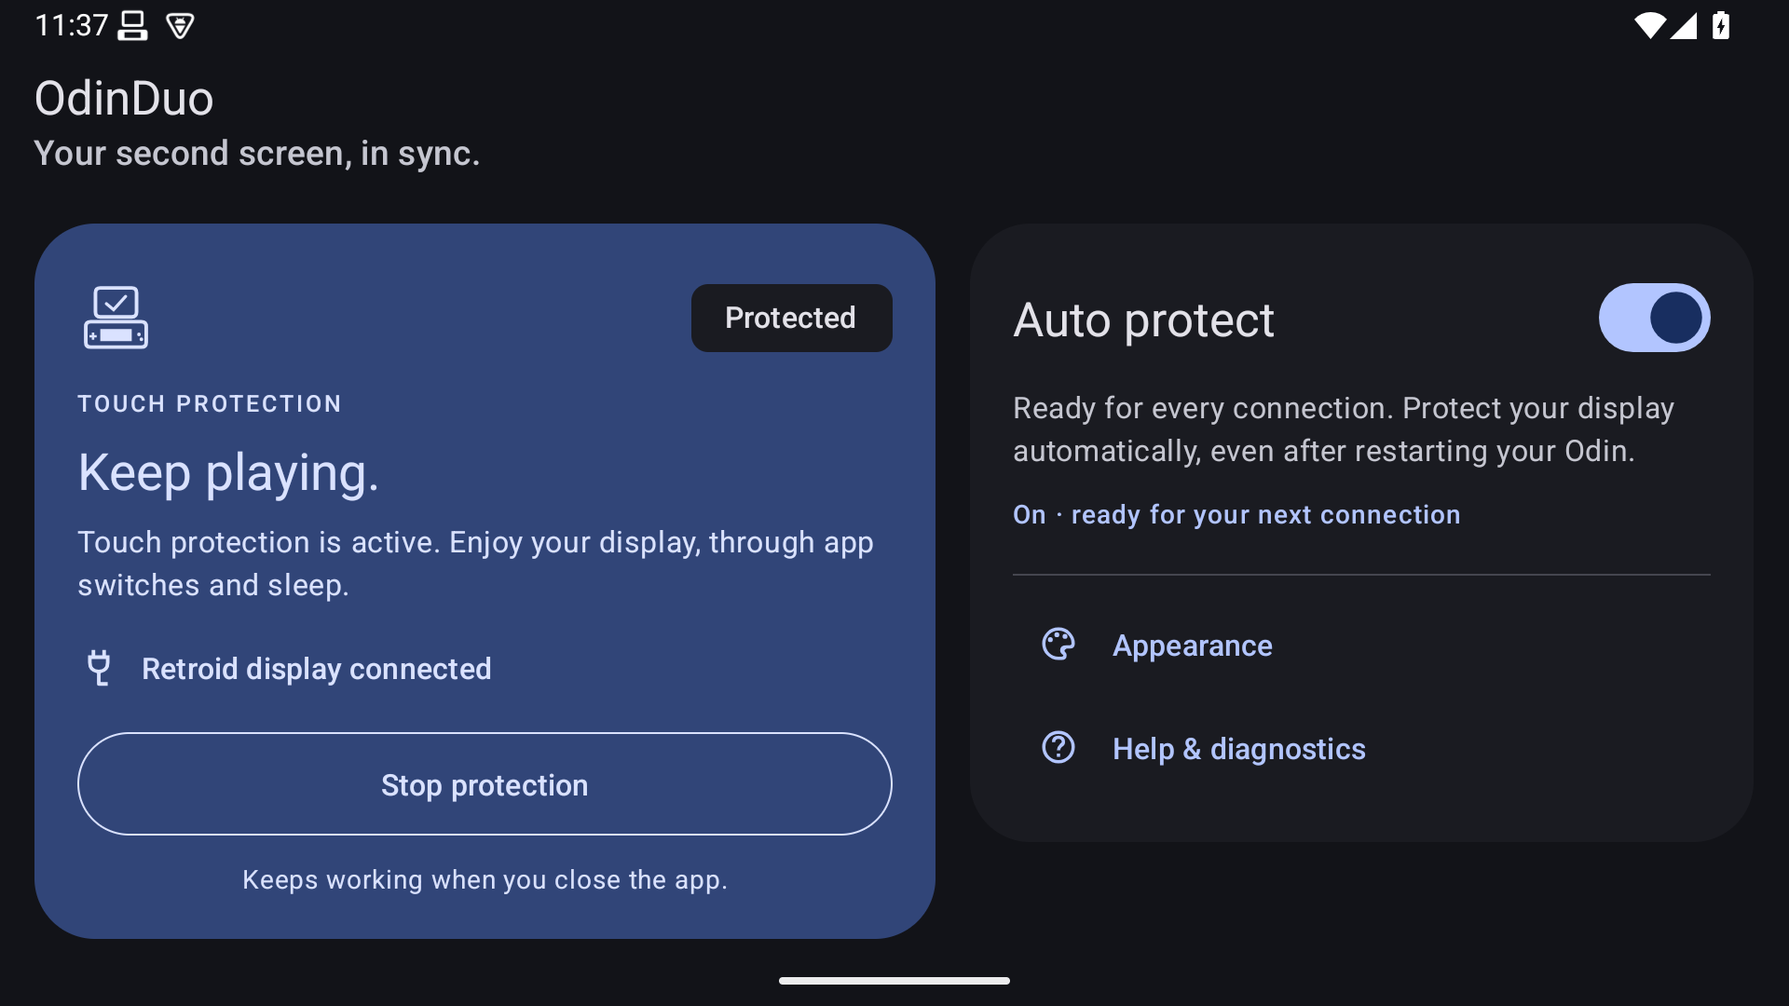
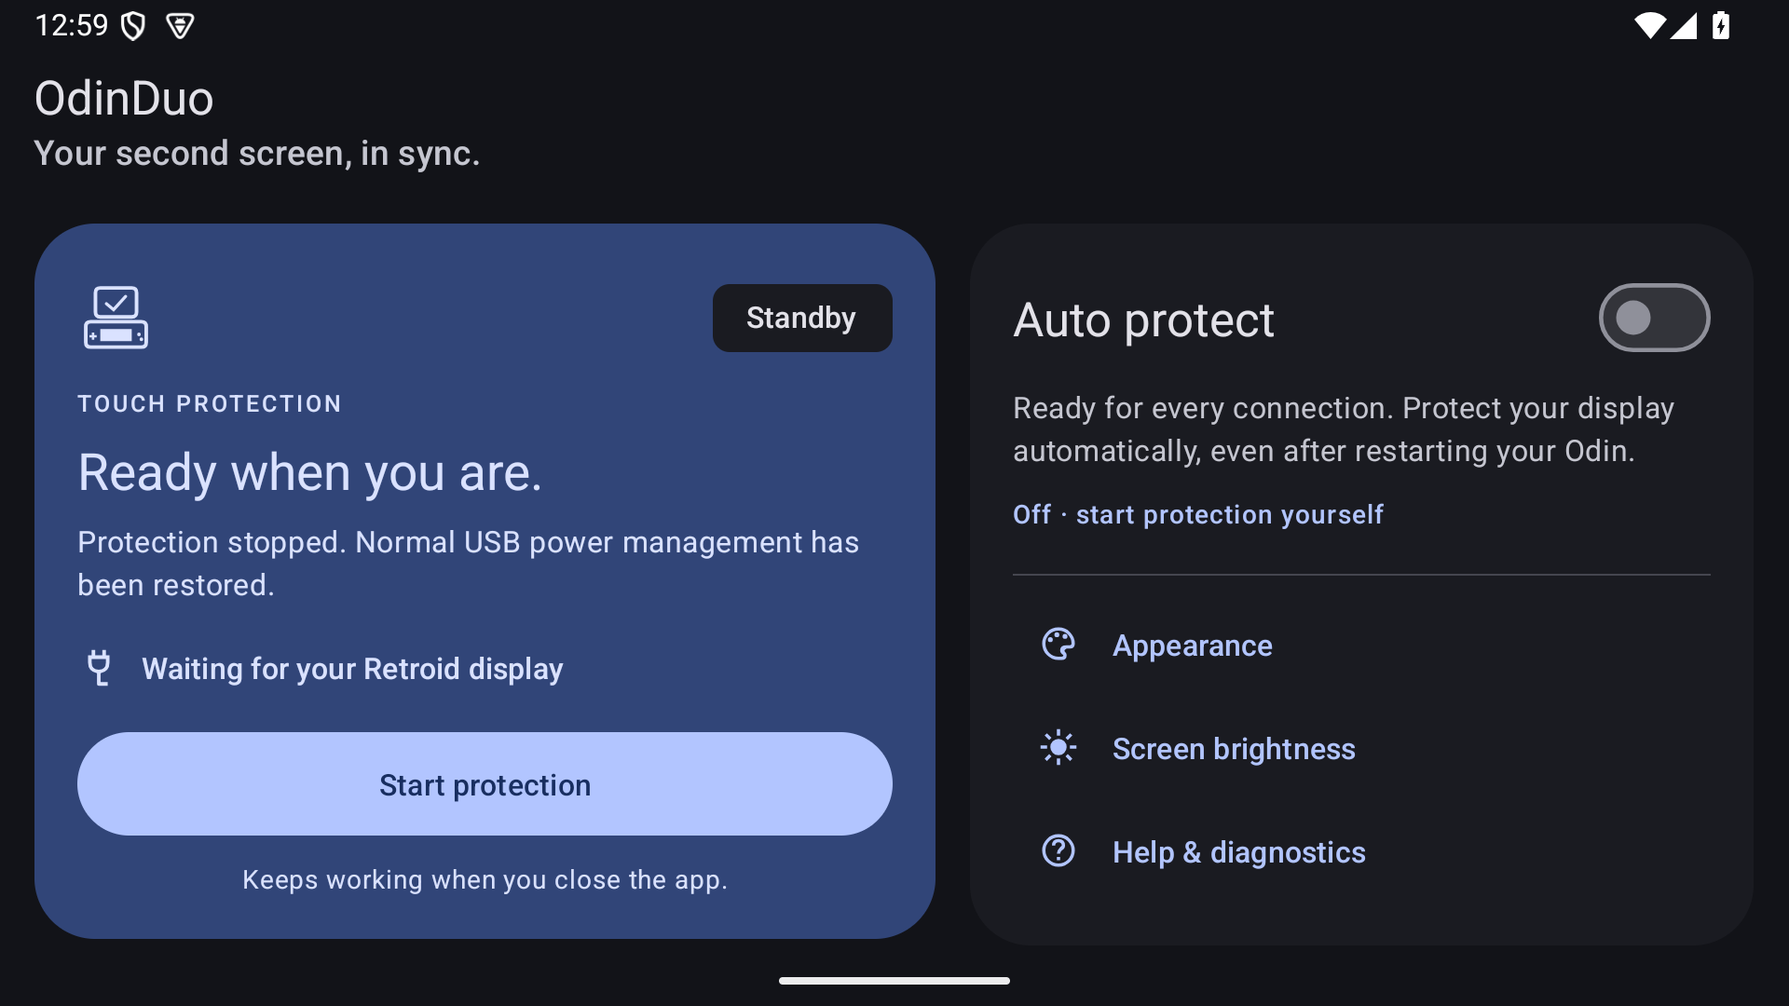
Fix automatic reconnect on stock Odin and prepare stable 1.0.0 update

diff --git a/app/tests/guard_lifecycle_test.py b/app/tests/guard_lifecycle_test.py
@@ -34,15 +34,21 @@ with tempfile.TemporaryDirectory(prefix='odinduo-guard-') as directory:
     binaries.mkdir()
     (binaries / 'id').write_text('#!/bin/sh\n[ "$1" = -u ] && echo 0\n')
     (binaries / 'id').chmod(0o755)
-    script = root / 'guard.sh'
+    script = app / 'power-guard.sh'
     text = source.read_text()
-    for old, new in [('/data/user/0/nl.retroid.touchguard/files', str(app)),
+    replacements = [('/data/user/0/nl.retroid.touchguard/files', str(app)),
                      ('/data/local/tmp', str(root / 'data/local/tmp')),
                      ('/sys/', str(root / 'sys') + '/'),
                      ('/proc/', str(proc) + '/'),
-                     ('/system/bin/sh', '/bin/sh')]:
+                     ('/system/bin/sh', '/bin/sh')]
+    for old, new in replacements:
         text = text.replace(old, new)
     script.write_text(text)
+    stop_script = app / 'power-stop.sh'
+    stop_text = source.with_name('pserver-power-stop.sh').read_text()
+    for old, new in replacements:
+        stop_text = stop_text.replace(old, new)
+    stop_script.write_text(stop_text)
     (root / 'data/local/tmp').mkdir(parents=True)
     token = 'a' * 32
     def owner(pid, start):
@@ -138,8 +144,28 @@ with tempfile.TemporaryDirectory(prefix='odinduo-guard-') as directory:
                 process.wait(timeout=4)
                 assert all(p.read_text().strip() == 'auto' for p in controls), 'Detach did not restore USB power'
                 assert not (app / 'guard-enabled').exists(), 'Detached session marker survived'
+                acknowledgement = format(cycle + 1, '032x')
+                stopped = subprocess.run(['/bin/sh', str(stop_script), acknowledgement], env=env,
+                                         capture_output=True, text=True, timeout=5)
+                assert stopped.returncode == 0, 'Restored detach was not acknowledged'
+                assert f'STOP acknowledged {acknowledgement} result=0' in log.read_text()
             finally:
                 if process.poll() is None:
                     (app / 'guard-enabled').unlink(missing_ok=True)
                     process.wait(timeout=5)
-    print('Shell lifecycle checks passed: process loss, PID reuse, adoption, Stop, grace expiry and 3 reconnects')
+    # A successful shell exit alone must never acknowledge outstanding restoration snapshots.
+    state = root / 'data/local/tmp/retroid-power-guard-state'
+    state.mkdir()
+    (state / 'saved-0').write_text('pending restoration\n')
+    script.write_text('#!/bin/sh\nexit 0\n')
+    failed_token = 'f' * 32
+    pending = subprocess.run(['/bin/sh', str(stop_script), failed_token], env=env,
+                             capture_output=True, text=True, timeout=5)
+    assert pending.returncode == 1, 'Pending restoration was reported as successful'
+    assert state.is_dir(), 'Failed confirmation discarded snapshots'
+    assert f'STOP acknowledged {failed_token} result=1' in log.read_text()
+    previous_log = log.read_text()
+    invalid = subprocess.run(['/bin/sh', str(stop_script), 'invalid;token'], env=env,
+                             capture_output=True, text=True, timeout=5)
+    assert invalid.returncode == 2 and log.read_text() == previous_log, 'Invalid token was accepted'
+    print('Shell lifecycle checks passed: process loss, PID reuse, adoption, Stop, grace expiry, 3 reconnects and restoration acknowledgements')

diff --git a/app/src/nl/retroid/touchguard/VendorBridge.java b/app/src/nl/retroid/touchguard/VendorBridge.java
@@ -112,12 +112,18 @@ final class VendorBridge {
         context.deleteFile("guard-heartbeat");
         File script = new File(context.getFilesDir(), "power-guard.sh");
         if (!script.isFile()) return;
-        String acknowledgement = "STOP acknowledged " + java.util.UUID.randomUUID().toString().replace("-", "");
-        String logPath = ProcessIdentity.quote(logFile(context).getAbsolutePath());
-        request("/system/bin/sh " + ProcessIdentity.quote(script.getAbsolutePath())
-                + " --stop >> " + logPath + " 2>&1; result=$?; "
-                + "[ ! -d /data/local/tmp/retroid-power-guard-state ] || result=1; printf "
-                + ProcessIdentity.quote(acknowledgement + " result=%s\n") + " \"$result\" >> " + logPath);
+        // The tested stock PServer accepts the long compound command but does not execute it.
+        // A short request to a bundled helper also works with a guard from an earlier APK.
+        File stopScript = new File(context.getFilesDir(), "power-stop.sh");
+        try (InputStream input = context.getResources().openRawResource(R.raw.power_stop);
+             OutputStream output = context.openFileOutput(stopScript.getName(), Context.MODE_PRIVATE)) {
+            byte[] buffer = new byte[8192];
+            int count;
+            while ((count = input.read(buffer)) >= 0) output.write(buffer, 0, count);
+        }
+        String token = java.util.UUID.randomUUID().toString().replace("-", "");
+        String acknowledgement = "STOP acknowledged " + token;
+        request("/system/bin/sh " + ProcessIdentity.quote(stopScript.getAbsolutePath()) + " " + token);
         long deadline = SystemClock.elapsedRealtime() + 5000;
         while (SystemClock.elapsedRealtime() < deadline) {
             String log = readLog(context);

diff --git a/app/src/nl/retroid/touchguard/MainActivity.java b/app/src/nl/retroid/touchguard/MainActivity.java
@@ -82,6 +82,7 @@ public final class MainActivity extends AppCompatActivity {
             if (!updatingSwitch) setAutomatic(enabled);
         });
         findViewById(R.id.appearance).setOnClickListener(view -> chooseAppearance());
+        findViewById(R.id.brightness).setOnClickListener(view -> showBrightnessHelp());
         findViewById(R.id.help).setOnClickListener(view -> showHelp());
         refreshStatus();
 
@@ -199,6 +200,18 @@ public final class MainActivity extends AppCompatActivity {
                     getSharedPreferences("appearance", MODE_PRIVATE).edit().putInt("theme", mode).apply();
                     dialog.dismiss();
                     AppCompatDelegate.setDefaultNightMode(mode);
+                }).setNegativeButton(android.R.string.cancel, null).show();
+    }
+
+    private void showBrightnessHelp() {
+        new MaterialAlertDialogBuilder(this).setTitle(R.string.brightness_title)
+                .setMessage(R.string.brightness_body)
+                .setPositiveButton(R.string.display_settings, (dialog, which) -> {
+                    try {
+                        startActivity(new Intent(android.provider.Settings.ACTION_DISPLAY_SETTINGS));
+                    } catch (android.content.ActivityNotFoundException exception) {
+                        Toast.makeText(this, R.string.display_settings_unavailable, Toast.LENGTH_SHORT).show();
+                    }
                 }).setNegativeButton(android.R.string.cancel, null).show();
     }
 

diff --git a/README.md b/README.md
@@ -23,6 +23,10 @@ Android may ask for notification permission. Allow it to see background status a
 
 **Appearance** lets you choose system, light or dark mode. **Help & diagnostics → Share diagnostics** exports only the app’s bounded logs and basic device/version information through Android’s share sheet. Nothing is sent automatically; the app has no internet permission.
 
+**Screen brightness → Match your screens** explains how to match brightness manually and opens Android Display settings. Show the same image on both screens, adjust the Odin brightness and use the Retroid display’s hardware buttons to match by eye. Disable adaptive brightness on the Odin if you want the match to stay consistent. Equal slider percentages do not imply equal light output from different panels.
+
+Automatic brightness synchronisation is **not available on the tested Odin 3 + Retroid Dual Screen setup**. Android reports no SurfaceControl brightness support or backlight for the external display. Three DDC/CI brightness queries over its identified DisplayPort AUX bus returned all-zero responses rather than a valid brightness value. No brightness-setting packets were sent. Retroid [documents dedicated brightness buttons](https://www.goretroid.com/products/retroid-dual-screen-add-on); no usable software brightness controller was established in this investigation.
+
 **Compatibility:** tested on an AYN Odin 3 running Android 15, firmware `Odin3_V1.0.0.187_20260616_193307_user`, with the Retroid touchscreen `222a:0001`. Other devices, firmware versions and USB topologies are unverified. Android 13 or newer is required, but the stock AYN service and the expected Odin 3 USB topology must also be present.
 
 Keeping USB awake may use extra battery, including during sleep. Battery impact has not been measured. This prevents the observed failure during an active session; it is not a guaranteed recovery method for a touchscreen that has already stopped responding.
@@ -41,6 +45,8 @@ The guard:
 - Ties the session to the foreground service’s PID, process start time, UID, package name and a unique marker. The service runs in its own `:guard` process and uses Android’s `START_STICKY` restart policy. Atomic status snapshots let the reopened UI display the existing session without starting a duplicate guard.
 - Allows up to 60 seconds for Android to restart an unexpectedly killed service process; the restarted service adopts the existing guard and keeps the saved USB settings. If no valid owner returns, the guard restores settings and exits. Explicit Stop bypasses this grace period. A separate watchdog handles unexpected worker termination.
 - Retains restoration snapshots if a write fails rather than silently discarding them.
+
+Stock PServer accepted the original 365-character compound Stop request without executing its restoration acknowledgement. This stopped automatic connection handling after detach on the physical Odin. A separate bundled stop helper now performs restoration and writes the unique acknowledgement; the Binder request only launches that helper. It also works with a guard left by an earlier APK. Protection rearms only after successful confirmation, and pending restoration snapshots still block a new session.
 
 The global `usbcore.autosuspend` setting is untouched. Runtime USB suspension and system sleep are different mechanisms. The app does not request an Android CPU wake lock, inject touches, alter launcher configuration, or request internet access.
 
@@ -63,7 +69,7 @@ adb -s YOUR_ODIN_SERIAL shell am start -n nl.retroid.touchguard/.MainActivity
 
 The app remains `nl.retroid.touchguard` so OdinDuo can update the original installation. Version **1.0.0** adds automatic connection sessions, opted-in boot/update startup, a redesigned dashboard, theme selection, adaptive/themed launcher icons and diagnostics sharing. The device-scoped shell power guard is unchanged.
 
-The canonical guard in `tools/pserver-power-guard.sh` is bundled as a generated resource during the build. Generated resources, APKs, device captures and signing keys are excluded from Git. `./app/build.sh` produces a debug APK for development. To build the non-debuggable release:
+The canonical guard in `tools/pserver-power-guard.sh` and its stop helper in `tools/pserver-power-stop.sh` are bundled as generated resources during the build. Generated resources, APKs, device captures and signing keys are excluded from Git. `./app/build.sh` produces a debug APK for development. To build the non-debuggable release:
 
 ```sh
 ./app/build.sh release
@@ -80,7 +86,7 @@ For an existing installation, preserve its signing key when building updates. Th
 ./gradlew :app:lintRelease
 ```
 
-The checks verify process identity parsing, rejection of truncated records, shell argument quoting without command substitution, USB descriptor/target validation, and log parsing that honours the latest power state and gives restoration failures precedence. The shell integration test runs the real guard against temporary fake proc/USB files: process loss preserves power settings, a reused PID is rejected, a new service adopts the session without resetting USB, explicit Stop restores promptly, and an expired restart grace restores the original settings. It never writes host or connected-device power settings. Emulator checks cannot establish that physical Retroid touch survives sleep.
+The checks verify process identity parsing, rejection of truncated records, shell argument quoting without command substitution, USB descriptor/target validation, and log parsing that honours the latest power state and gives restoration failures precedence. The shell integration test runs the real guard against temporary fake proc/USB files: process loss preserves power settings, a reused PID is rejected, a new service adopts the session without resetting USB, explicit Stop restores promptly, and an expired restart grace restores the original settings. It also checks detach acknowledgements across three connection leases, rejects invalid acknowledgement tokens and ensures pending snapshots cannot be acknowledged as successful. It never writes host or connected-device power settings. Emulator checks cannot establish that physical Retroid touch survives sleep.
 
 Physical validation of the workaround recorded three sleep/wake pairs with genuine raw touch events after each wake. The tester reported five uninterrupted cycles in that run. The USB host was active in all 69 recorded samples; the Retroid device was active in 68 samples and briefly suspended in one. The guard corrected six firmware overwrites of the touchscreen's power setting.
 
@@ -88,7 +94,9 @@ The self-contained 0.3 app was subsequently confirmed working by the tester. Sta
 
 Version 0.4.0 was installed as an in-place update on the same Odin. Its English UI was checked in portrait and landscape, in light and dark mode. Start reached the waiting state; Stop ended the worker and watchdog with the USB controllers still at their original `auto` settings while no RDS was connected. These results cover the tested device and firmware; long-duration reliability and battery use remain unmeasured.
 
-Version 1.0 validation additionally exercised the signed, non-debuggable APK in an isolated Android 15 emulator with a test-only PServer adapter and temporary fake USB files. Three automatic detach/restore/reconnect cycles passed. Closing recents retained protection; killing the service adopted the same existing guard. App replacement resumed automatic mode. A boot-completed receiver invocation and an immediate stop/restart restoration check passed; a complete physical Odin reboot remains unverified. Both themes and orientations were inspected. These simulated USB checks establish lifecycle and restoration behaviour, not physical touch or battery performance. The Odin was not connected during the 1.0 release checks.
+The initial 1.0 build was checked in an isolated Android 15 emulator with a test-only PServer adapter and temporary fake USB files. Three automatic detach/restore/reconnect cycles passed. Closing recents retained protection; killing the service adopted the same existing guard. App replacement resumed automatic mode. A boot-completed receiver invocation and an immediate stop/restart restoration check passed; a complete physical Odin reboot remains unverified. Both themes and orientations were inspected. These simulated checks did not reproduce the stock vendor’s failure to execute the longer Stop command; that failure was subsequently reproduced on the physical Odin and addressed in the updated 1.0.0 APK.
+
+The updated build (version code 7) passed the build, release lint (zero errors) and regression checks, including the stop helper’s success, invalid-token and pending-restoration cases. It installed over 1.0.0 on the physical Odin with the same certificate, resumed the enabled automatic mode after app replacement, confirmed Stop through the stock service and returned to a clean waiting session. The brightness investigation used the connected physical Retroid display; the matching guide and its layout were inspected in an Android 15 emulator. A new physical three-connection touch test was requested separately; its result is not included in these measurements.
 
 ## Diagnostics and removal
 
@@ -126,5 +134,6 @@ The diagnostic logger and previous experimental console helpers remain in `tools
 - [Android service restart and task-removal behaviour](https://developer.android.com/reference/android/app/Service#START_STICKY) and [Android user-initiated stopping](https://developer.android.com/develop/background-work/services/fgs/handle-user-stopping) explain the lifecycle used in 0.5.0.
 - [Android special-use foreground services](https://developer.android.com/develop/background-work/services/fgs/service-types#special-use) and [dynamic colours](https://developer.android.com/develop/ui/views/theming/dynamic-colors) describe the Android APIs used by the app.
 - [Material Components for Android](https://github.com/material-components/material-components-android/releases/tag/1.14.0) supplies the Material 3 interface.
+- [AOSP LocalDisplayAdapter](https://android.googlesource.com/platform/frameworks/base/+/refs/heads/main/services/core/java/com/android/server/display/LocalDisplayAdapter.java) implements the external display backlight adapter inspected during the brightness investigation.
 
 Independent community project; not affiliated with AYN or Retroid. Original OdinDuo source is available under the [MIT licence](LICENSE). External projects and bundled dependencies retain their respective licences; see [NOTICE.md](NOTICE.md).

diff --git a/docs/reddit-announcement.md b/docs/reddit-announcement.md
@@ -1,0 +1,32 @@
+# OdinDuo 1.0.0: keep Retroid Dual Screen touch working on the AYN Odin 3
+
+I kept losing touch input on my Retroid Dual Screen after putting my Odin 3 to sleep or switching apps. The display still worked, but the touchscreen stopped responding.
+
+OdinDuo is a small, free, open-source app built around the USB power-management workaround that solved this on my setup. Version 1.0.0 is now available.
+
+**What it does**
+
+- Keeps the Retroid touchscreen's USB connection awake while protection is active.
+- Continues protecting it when you return to your launcher or swipe OdinDuo out of recent apps.
+- Offers optional **Auto protect**: enable it once, and it waits for the screen, protects each connection and stays ready when you unplug it.
+- Restores the original USB power settings when you unplug the screen or stop protection.
+- Includes an English Material You interface, system/light/dark themes and local diagnostics you can choose to share.
+- Includes a brightness-matching guide and a shortcut to Android Display settings. The Retroid screen still uses its own brightness buttons; automatic brightness sync is not supported on my tested setup.
+
+**Getting started**
+
+1. Download and install the APK from the release below.
+2. Open OdinDuo and enable **Auto protect**, or tap **Start protection** for one session.
+3. Connect the Retroid Dual Screen, wait for **Protected**, then go back to your launcher or game.
+
+It works through the built-in AYN service on the tested stock firmware. You do not need Magisk, a bootloader unlock or a firmware flash. The app has no internet permission and sends nothing automatically.
+
+I tested the touch workaround on an **AYN Odin 3 running Android 15, firmware 1.0.0.187**. Other devices and firmware versions are unverified. Keeping USB awake may use extra battery, including during sleep; I haven't measured the battery impact yet. Start protection while touch is working: this is a prevention workaround, not a guaranteed recovery tool after touch has already failed.
+
+**Download:** https://github.com/Tufein/OdinDuo/releases/tag/v1.0.0
+
+**Source and issues:** https://github.com/Tufein/OdinDuo
+
+Thanks to Crypt0Shmipt0 for the original Odin 3 USB-pinning approach, and AurelioB's ClusterTune / FeralAI's O2P Tweaks for documenting the stock AYN service. OdinDuo builds on that work with session management, restoration and automatic connection handling.
+
+If you try it, I'd appreciate hearing your Odin model, firmware version and how it behaves after sleep and wake. This is an independent community project, not an official AYN or Retroid app.

diff --git a/docs/design.md b/docs/design.md
@@ -2,8 +2,10 @@
 
 The 1.0 interface uses Material 3 semantic colours. Dynamic colours follow the device wallpaper where available; a sage palette is the fallback. System, light and dark appearance are independent of the foreground protection service.
 
-The primary card shows a decorative dual-screen mark, a status chip, the current session, device connection and one Start/Stop action. The settings card contains Auto protect, its persisted mode, appearance and help. Cards stack in portrait and share a row in landscape; content scrolls for large fonts or short windows.
+The primary card shows a decorative dual-screen mark, a status chip, the current session, device connection and one Start/Stop action. The settings card contains Auto protect, its persisted mode, appearance, screen brightness guidance and help. Cards stack in portrait and share a row in landscape; content scrolls for large fonts or short windows.
 
 Cards use the Material extra-large corner shape, 24 dp padding (20 dp in landscape) and no elevation. Primary actions have a minimum 56 dp height; settings actions and the switch have a minimum 48 dp height. Text and buttons use semantic foreground/background colour pairs, including disabled controls. Decorative icons are omitted from accessibility focus. Status changes are announced politely. Native Material controls retain touch, keyboard and gamepad focus behaviour.
 
 The Auto protect switch controls persistent connection monitoring. Turning it off preserves a fully active session until disconnect. Stop ends the session and disables automatic mode. The dashboard reads atomic service snapshots; navigating, changing theme or dismissing the activity does not stop protection.
+
+Screen brightness opens a native Material dialog with manual matching steps and an Android Display settings shortcut. It makes the Retroid hardware-button requirement explicit and offers no automatic-sync switch or ineffective external-display slider. It does not change brightness, add overlays or request extra permissions.

diff --git a/CHANGELOG.md b/CHANGELOG.md
@@ -1,7 +1,10 @@
 # Changelog
 
-## 1.0.0 — 2026-10-04
+## 1.0.0 — 2026-10-05
 
+- Fix Auto protect stopping after display detach on stock Odin 3 firmware: use a short vendor request to a bundled stop helper, and confirm restoration before rearming.
+- Add Screen brightness guidance and a shortcut to Android Display settings. Automatic Retroid brightness control is unavailable on the tested setup; use the display’s hardware buttons to match manually.
+- Update the 1.0.0 APK in place with version code 7 and the existing signing certificate. Earlier GitHub releases are pre-releases.
 - Redesign the English Material You dashboard with a single session action, clear connection status and layouts for portrait and landscape.
 - Add opt-in Auto protect: wait for the Retroid display, protect on connection, restore on detach, and prepare the next connection automatically.
 - Restore opted-in automatic mode after boot or app updates; Stop also disables automatic mode.
